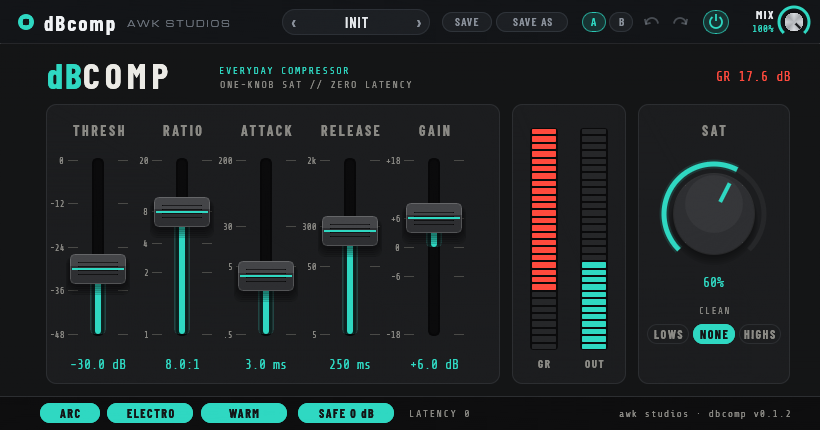
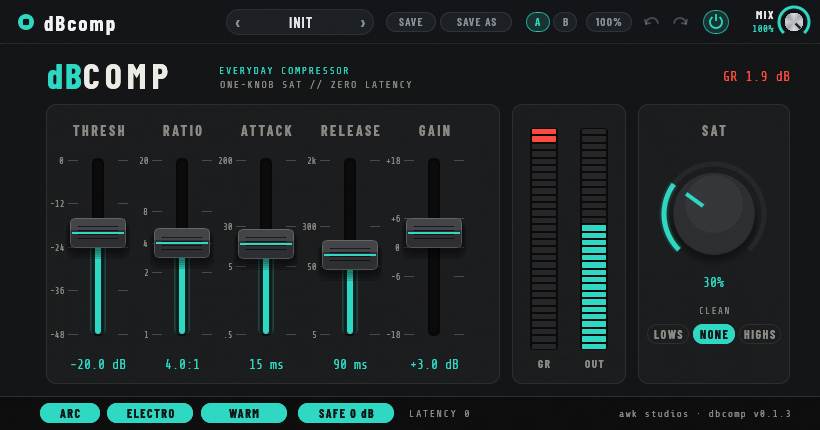
dbcomp 0.1.3: engine and UI update; new screenshot

diff --git a/src/presets.rs b/src/presets.rs
@@ -35,6 +35,17 @@ pub fn dir(plugin: &str) -> PathBuf {
     PathBuf::from(home).join("Documents").join("Awknode").join("Presets").join(plugin)
 }
 
+/// Window sizes in the SIZE dropdown. 100% is the designed (smallest) size.
+pub const SCALES: [f32; 5] = [1.0, 1.25, 1.5, 1.75, 2.0];
+/// Size a plugin opens at until that instance has its own saved size.
+pub const DEFAULT_SCALE: f32 = 1.25;
+
+/// Before the editor opens: use this instance's saved size, else the default.
+pub fn apply_scale(state: &nice_plug_egui::EguiEditorState, saved: &std::sync::RwLock<f32>) {
+    let s = saved.read().map(|v| *v).unwrap_or(0.0);
+    state.set_zoom_factor(if s > 0.0 { s } else { DEFAULT_SCALE });
+}
+
 pub struct PresetBar {
     plugin: &'static str,
     list: Vec<String>,
@@ -42,6 +53,7 @@ pub struct PresetBar {
     pub current: String,
     dirty_check: Option<Vec<f32>>,
     open: bool,
+    size_open: bool,
     naming: Option<String>,
     /// True on the frame the name box opened (so the click that opened it can't close it).
     naming_new: bool,
@@ -65,6 +77,7 @@ impl PresetBar {
             current: INIT.into(),
             dirty_check: None,
             open: false,
+            size_open: false,
             naming: None,
             naming_new: false,
             favs: Vec::new(),
@@ -275,49 +288,64 @@ impl PresetBar {
     /// Draws the header across the top of `whole` and returns the area left below
     /// it for the plugin's own UI (nothing can overlap the header).
     #[allow(clippy::too_many_arguments)]
-    pub fn strip(&mut self, ui: &mut egui::Ui, setter: &ParamSetter, params: &dyn Params, whole: Rect, skin: &Skin, mix: &FloatParam, bypass: &BoolParam) -> Rect {
+    pub fn strip(&mut self, ui: &mut egui::Ui, setter: &ParamSetter, params: &dyn Params, whole: Rect, skin: &Skin, mix: &FloatParam, bypass: &BoolParam, ui_scale: &std::sync::RwLock<f32>) -> Rect {
         let band = Rect::from_min_max(whole.left_top(), pos2(whole.right(), whole.top() + STRIP));
         let p = ui.painter().clone();
         let (l, r, cy) = (band.left(), band.right(), band.center().y);
-        // Band + brand.
-        match skin.look {
-            Look::Riso => {
-                p.rect_filled(band, 0.0, INK);
-                let br = txt(&p, pos2(l + 18.0, cy), Align2::LEFT_CENTER, "AWK STUDIOS", mono(10.0), rgb(0xbd, 0xb3, 0xa3), 3.0);
-                let f = skin.name_font.clone().unwrap_or(labb(24.0));
-                txt(&p, pos2(br.right() + 17.0, cy + 3.0), Align2::LEFT_CENTER, skin.name, f.clone(), skin.brand.unwrap_or(RISO_PINK), 2.0);
-                txt(&p, pos2(br.right() + 14.0, cy), Align2::LEFT_CENTER, skin.name, f, PAPER, 2.0);
-            }
-            Look::Blackface => {
-                vgrad(&p, band, rgb(0x14, 0x14, 0x16), rgb(0x0b, 0x0b, 0x0c));
-                p.rect_filled(Rect::from_min_size(pos2(l, band.bottom() - 1.0), vec2(band.width(), 1.0)), 0.0, Color32::BLACK);
-                p.rect_filled(Rect::from_min_size(pos2(l, band.bottom()), vec2(band.width(), 1.0)), 0.0, Color32::from_white_alpha(15));
-                let br = txt(&p, pos2(l + 18.0, cy), Align2::LEFT_CENTER, "AWK STUDIOS", disp(9.0), rgb(0xbf, 0xc3, 0xc8), 2.0);
-                txt(&p, pos2(br.right() + 14.0, cy + 1.0), Align2::LEFT_CENTER, skin.name, labb(21.0), rgb(0xf2, 0xf2, 0xf2), 2.5);
-            }
-            Look::Hud => {
-                p.rect_filled(band, 0.0, Color32::from_rgba_unmultiplied(2, 6, 10, 235));
-                line(&p, pos2(l, band.bottom() - 0.5), pos2(r, band.bottom() - 0.5), al(CY, 0.5), 1.0);
-                let mut x = l;
-                let mut i = 0;
-                while x < r {
-                    line(&p, pos2(x + 0.5, band.bottom()), pos2(x + 0.5, band.bottom() - if i % 5 == 0 { 6.0 } else { 3.0 }), al(CY, 0.5), 1.0);
-                    x += 10.0;
-                    i += 1;
+        // Band + brand, drawn by a closure: measured first on a painter clipped to nothing, then
+        // drawn for real. The small AWK STUDIOS text is left out if the preset browser would get
+        // narrower than 150 px (narrow plugins at the SIZE chip's extra width).
+        let brand_right = std::cell::Cell::new(l);
+        let tx = |p: &egui::Painter, pos: egui::Pos2, a: Align2, s: &str, f: egui::FontId, c: Color32, sp: f32| -> Rect {
+            let rr = txt(p, pos, a, s, f, c, sp);
+            brand_right.set(brand_right.get().max(rr.right()));
+            rr
+        };
+        let draw_brand = |p: &egui::Painter, awk: bool| {
+            brand_right.set(l);
+            match skin.look {
+                Look::Riso => {
+                    p.rect_filled(band, 0.0, INK);
+                    let br = if awk { tx(p, pos2(l + 18.0, cy), Align2::LEFT_CENTER, "AWK STUDIOS", mono(10.0), rgb(0xbd, 0xb3, 0xa3), 3.0) } else { Rect::from_min_size(pos2(l + 4.0, cy), vec2(0.0, 0.0)) };
+                    let f = skin.name_font.clone().unwrap_or(labb(24.0));
+                    tx(p, pos2(br.right() + 17.0, cy + 3.0), Align2::LEFT_CENTER, skin.name, f.clone(), skin.brand.unwrap_or(RISO_PINK), 2.0);
+                    tx(p, pos2(br.right() + 14.0, cy), Align2::LEFT_CENTER, skin.name, f, PAPER, 2.0);
                 }
-                txt(&p, pos2(l + 18.0, band.top() + 8.0), Align2::LEFT_TOP, "AWK STUDIOS", disp(8.0), CY, 3.0);
-                txt(&p, pos2(l + 18.0, band.top() + 22.0), Align2::LEFT_TOP, format!("//{}", skin.name), disp(11.0), rgb(0xf0, 0xfb, 0xff), 2.0);
+                Look::Blackface => {
+                    vgrad(&p, band, rgb(0x14, 0x14, 0x16), rgb(0x0b, 0x0b, 0x0c));
+                    p.rect_filled(Rect::from_min_size(pos2(l, band.bottom() - 1.0), vec2(band.width(), 1.0)), 0.0, Color32::BLACK);
+                    p.rect_filled(Rect::from_min_size(pos2(l, band.bottom()), vec2(band.width(), 1.0)), 0.0, Color32::from_white_alpha(15));
+                    let br = if awk { tx(p, pos2(l + 18.0, cy), Align2::LEFT_CENTER, "AWK STUDIOS", disp(9.0), rgb(0xbf, 0xc3, 0xc8), 2.0) } else { Rect::from_min_size(pos2(l + 4.0, cy), vec2(0.0, 0.0)) };
+                    tx(p, pos2(br.right() + 14.0, cy + 1.0), Align2::LEFT_CENTER, skin.name, labb(21.0), rgb(0xf2, 0xf2, 0xf2), 2.5);
+                }
+                Look::Hud => {
+                    p.rect_filled(band, 0.0, Color32::from_rgba_unmultiplied(2, 6, 10, 235));
+                    line(&p, pos2(l, band.bottom() - 0.5), pos2(r, band.bottom() - 0.5), al(CY, 0.5), 1.0);
+                    let mut x = l;
+                    let mut i = 0;
+                    while x < r {
+                        line(&p, pos2(x + 0.5, band.bottom()), pos2(x + 0.5, band.bottom() - if i % 5 == 0 { 6.0 } else { 3.0 }), al(CY, 0.5), 1.0);
+                        x += 10.0;
+                        i += 1;
+                    }
+                    if awk { tx(p, pos2(l + 18.0, band.top() + 8.0), Align2::LEFT_TOP, "AWK STUDIOS", disp(8.0), CY, 3.0); }
+                    tx(p, pos2(l + 18.0, band.top() + 22.0), Align2::LEFT_TOP, &format!("//{}", skin.name), disp(11.0), rgb(0xf0, 0xfb, 0xff), 2.0);
+                }
+                Look::Machined => {
+                    p.rect_filled(band, 0.0, rgb(0x13, 0x15, 0x18));
+                    p.rect_filled(Rect::from_min_size(pos2(l, band.bottom() - 1.0), vec2(band.width(), 1.0)), 0.0, Color32::from_white_alpha(10));
+                    let dot = pos2(l + 26.0, cy);
+                    p.circle_filled(dot, 8.0, skin.acc);
+                    p.circle_filled(dot, 3.5, rgb(0x13, 0x15, 0x18));
+                    let nr = tx(p, pos2(l + 44.0, cy + 1.0), Align2::LEFT_CENTER, skin.name, labb(21.0), rgb(0xf1, 0xf3, 0xf5), 2.0);
+                    if awk { tx(p, pos2(nr.right() + 12.0, cy + 1.0), Align2::LEFT_CENTER, "AWK STUDIOS", disp(8.0), rgb(0x6c, 0x73, 0x7c), 2.0); }
+                }
             }
-            Look::Machined => {
-                p.rect_filled(band, 0.0, rgb(0x13, 0x15, 0x18));
-                p.rect_filled(Rect::from_min_size(pos2(l, band.bottom() - 1.0), vec2(band.width(), 1.0)), 0.0, Color32::from_white_alpha(10));
-                let dot = pos2(l + 26.0, cy);
-                p.circle_filled(dot, 8.0, skin.acc);
-                p.circle_filled(dot, 3.5, rgb(0x13, 0x15, 0x18));
-                let nr = txt(&p, pos2(l + 44.0, cy + 1.0), Align2::LEFT_CENTER, skin.name, labb(21.0), rgb(0xf1, 0xf3, 0xf5), 2.0);
-                txt(&p, pos2(nr.right() + 12.0, cy + 1.0), Align2::LEFT_CENTER, "AWK STUDIOS", disp(8.0), rgb(0x6c, 0x73, 0x7c), 2.0);
-            }
-        }
+        };
+        draw_brand(&p.clone().with_clip_rect(Rect::NOTHING), true);
+        let awk = (r - 434.0 - 12.0) - (brand_right.get() + 14.0) >= 150.0;
+        draw_brand(&p, awk);
+        let brand_r = brand_right.get();
 
         // Right side, laid out from the right edge.
         let mix_c = pos2(r - 26.0, cy);
@@ -345,8 +373,53 @@ impl PresetBar {
                 self.undo(setter, params);
             }
         }
+        // SIZE: dropdown of window sizes. Saved per instance (with the project).
+        {
+            let cur = ui.ctx().zoom_factor();
+            let idx = SCALES.iter().position(|s| (s - cur).abs() < 0.01).unwrap_or(0);
+            let sr = Rect::from_min_size(pos2(r - 234.0, cy - 10.0), vec2(46.0, 20.0));
+            let resp = skin.chip(ui, sr, &format!("{:.0}%", SCALES[idx] * 100.0), self.size_open, "pb-size").on_hover_text("Window size");
+            if resp.clicked() {
+                self.size_open = !self.size_open;
+            }
+            if self.size_open {
+                let (bg, edge, hi) = match skin.look {
+                    Look::Hud => (Color32::from_rgba_unmultiplied(4, 10, 18, 250), CY, al(skin.acc, 0.28)),
+                    Look::Blackface | Look::Riso => (rgb(0x16, 0x16, 0x18), rgb(0x45, 0x47, 0x4b), al(skin.acc, 0.3)),
+                    Look::Machined => (rgb(0x1d, 0x20, 0x24), rgb(0x3a, 0x3f, 0x46), al(skin.acc, 0.25)),
+                };
+                let mut pick = None;
+                let inner = egui::Area::new(Id::new((self.plugin, "size-list"))).order(Order::Foreground).fixed_pos(sr.left_bottom() + vec2(-14.0, 4.0)).show(ui.ctx(), |ui| {
+                    egui::Frame::NONE.fill(bg).stroke(Stroke::new(1.0_f32, edge)).inner_margin(4.0).show(ui, |ui| {
+                        txt(ui.painter(), ui.max_rect().left_top() + vec2(6.0, 9.0), Align2::LEFT_CENTER, "SIZE", mono(9.5), skin.acc, 1.5);
+                        ui.allocate_exact_size(vec2(66.0, 18.0), Sense::hover());
+                        for (i, s) in SCALES.iter().enumerate() {
+                            let (rr, rs) = ui.allocate_exact_size(vec2(66.0, 22.0), Sense::click());
+                            if i == idx {
+                                ui.painter().rect_filled(rr, 2.0, hi);
+                            } else if rs.hovered() {
+                                ui.painter().rect_filled(rr, 2.0, Color32::from_white_alpha(14));
+                            }
+                            txt(ui.painter(), rr.center(), Align2::CENTER_CENTER, &format!("{:.0}%", s * 100.0), lab(14.0), if i == idx { Color32::WHITE } else { skin.text_hi() }, 0.5);
+                            if rs.clicked() {
+                                pick = Some(*s);
+                            }
+                        }
+                    });
+                });
+                if let Some(v) = pick {
+                    self.size_open = false;
+                    if let Ok(mut w) = ui_scale.write() {
+                        *w = v;
+                    }
+                    ui.ctx().set_zoom_factor(v);
+                } else if (ui.input(|i| i.pointer.any_click()) && !inner.response.hovered() && !resp.hovered()) || ui.input(|i| i.key_pressed(Key::Escape)) {
+                    self.size_open = false;
+                }
+            }
+        }
         for (i, s) in ["A", "B"].iter().enumerate() {
-            let cr = Rect::from_min_size(pos2(r - 238.0 + i as f32 * 27.0, cy - 10.0), vec2(24.0, 20.0));
+            let cr = Rect::from_min_size(pos2(r - 294.0 + i as f32 * 27.0, cy - 10.0), vec2(24.0, 20.0));
             if skin.chip(ui, cr, s, self.ab_on == i, ("ab", i)).clicked() {
                 self.switch_ab(setter, params, i);
             }
@@ -358,7 +431,7 @@ impl PresetBar {
             }
             self.dirty_check.as_ref().map(|s| *s != snap).unwrap_or(false)
         };
-        let save_as = Rect::from_min_size(pos2(r - 324.0, cy - 10.0), vec2(72.0, 20.0));
+        let save_as = Rect::from_min_size(pos2(r - 380.0, cy - 10.0), vec2(72.0, 20.0));
         let save = Rect::from_min_size(pos2(save_as.left() - 54.0, cy - 10.0), vec2(50.0, 20.0));
         if skin.chip(ui, save, "SAVE", dirty, "pb-save").clicked() {
             if self.current == INIT {
@@ -374,7 +447,7 @@ impl PresetBar {
             self.open_naming(start);
         }
 
-        let pl = (l + 300.0).min(save.left() - 160.0);
+        let pl = (l + 300.0).min(save.left() - 160.0).max(brand_r + 14.0);
         let preset_r = Rect::from_min_max(pos2(pl, band.top() + 9.0), pos2(save.left() - 12.0, band.bottom() - 9.0));
         self.browser(ui, setter, params, preset_r, skin, dirty);
         Rect::from_min_max(pos2(whole.left(), band.bottom()), whole.right_bottom())

diff --git a/src/lib.rs b/src/lib.rs
@@ -27,7 +27,14 @@ mod presets;
 use dbcore::*;
 
 const CR: usize = 16;
-const KNEE: f32 = 6.0;
+/// 0.1.3: fitted to Waves RComp (awk-bench 2026-11-22): 24 dB knee, threshold reads 1 dB lower,
+/// ratio law r^1.25 -> GR within ~1 dB of RComp at 2:1 / 4:1 / 8:1 (was 2-3 dB light everywhere).
+const KNEE: f32 = 24.0;
+const THR_OFFSET: f32 = 1.0;
+const RATIO_EXP: f32 = 1.25;
+/// RComp's attack knob measures ~1.8x slower (10 ms -> 18 ms to 63%), its release ~0.48x (120 ms -> 58 ms).
+const ATTACK_SCALE: f32 = 1.8;
+const RELEASE_SCALE: f32 = 0.32;
 
 pub struct Shared {
     pub meters: awk_ui::Meters,
@@ -75,6 +82,9 @@ pub struct DbCompParams {
     pub safe: BoolParam,
     #[id = "bypass"]
     pub bypass: BoolParam,
+    /// Window size (1.0 = 100%), saved with the project. 0 = not set: open at the default.
+    #[persist = "ui-scale"]
+    pub ui_scale: Arc<std::sync::RwLock<f32>>,
 }
 
 fn ms_param(name: &str, def: f32, min: f32, max: f32) -> FloatParam {
@@ -113,6 +123,7 @@ impl Default for DbCompParams {
             mix: awk_ui::mix_param(),
             safe: awk_ui::safe_param(),
             bypass: awk_ui::bypass_param(),
+            ui_scale: Arc::new(std::sync::RwLock::new(0.0)),
         }
     }
 }
@@ -143,7 +154,7 @@ impl Default for State {
 pub fn release_mult(gr: f32, arc_m: f32, arc: bool, opto: bool) -> f32 {
     let e = (-gr / 4.0).exp();
     let beh = if opto { 0.5 + 1.5 * e } else { 1.5 - e };
-    beh * if arc { arc_m } else { 1.0 }
+    RELEASE_SCALE * beh * if arc { arc_m } else { 1.0 }
 }
 
 pub struct Engine {
@@ -214,12 +225,14 @@ impl Engine {
         for i in 0..l.len() {
             let (x0, x1) = (l[i], r[i]);
             if self.n == 0 {
-                self.ca = coef(self.sr, st.attack_ms * 0.001);
+                self.ca = coef(self.sr, st.attack_ms * ATTACK_SCALE * 0.001);
                 self.cr = coef(self.sr, st.release_ms * 0.001 * release_mult(self.gr, self.crest.mult(), st.arc, st.opto));
             }
             self.n = (self.n + 1) % CR;
             self.crest.tick(x0, x1);
-            let t = gr_soft(self.lvl.tick(x0, x1), st.thresh, st.ratio, KNEE);
+            // knee widens as THRESH comes down, so THRESH 0 stays a clean "off" (hard knee at 0 dBFS)
+            let knee = KNEE.min(-2.0 * st.thresh).max(0.5);
+            let t = gr_soft(self.lvl.tick(x0, x1) + THR_OFFSET, st.thresh, st.ratio.max(1.0).powf(RATIO_EXP), knee);
             let c = if t > self.gr { self.ca } else { self.cr };
             self.gr = t + c * (self.gr - t);
             peak_gr = peak_gr.max(self.gr);
@@ -227,7 +240,8 @@ impl Engine {
             let (mut y0, mut y1) = (x0 * gc, x1 * gc);
             if warm_on {
                 // quantised so the saturator's cached coefficients hold between steps
-                let w = ((self.gr / 18.0).min(1.0) * 0.35 * 64.0).round() / 64.0;
+                // 0.1.3: RComp's WARM is very subtle (2nd harmonic ~-105 dB); ours was -49 dB. Now ~20 dB subtler.
+                let w = ((self.gr / 18.0).min(1.0) * 0.035 * 512.0).round() / 512.0;
                 y0 = self.warm.tick(0, y0, w, 1);
                 y1 = self.warm.tick(1, y1, w, 1);
             }

diff --git a/tests/engine.rs b/tests/engine.rs
@@ -39,13 +39,15 @@ fn defaults_are_transparent() {
     for i in 0..x.len() { assert_eq!(y[i], x[i], "sample {i}"); }
 }
 
+/// 0.1.3: the static curve matches Waves RComp (awk-bench 2026-11-22, 200 Hz at -12 dBFS RMS,
+/// ARC/WARM/ELECTRO): thresh -24 4:1 -> -13.6 dB, 2:1 -> -10.3, 8:1 -> -14.4; thresh -12 4:1 -> -4.7.
 #[test]
 fn static_curve_matches_thresh_and_ratio() {
-    let x = sine(48000, -10.0, 200.0);
-    for (th, ra, want) in [(-20.0f32, 4.0f32, -7.5f32), (-20.0, 2.0, -5.0), (-30.0, 10.0, -18.0), (0.0, 4.0, 0.0)] {
+    let x = sine(48000, -12.0 + 3.0103, 200.0);
+    for (th, ra, want) in [(-24.0f32, 4.0f32, -13.6f32), (-24.0, 2.0, -10.3), (-24.0, 8.0, -14.4), (-12.0, 4.0, -4.7), (0.0, 4.0, 0.0)] {
         let g = gain_db(&State { thresh: th, ratio: ra, warm: false, safe: false, ..State::default() }, &x);
-        println!("thresh {th} ratio {ra}: {g:.2} dB (want {want})");
-        assert!((g - want).abs() < 0.8, "{th}/{ra}: {g}");
+        println!("thresh {th} ratio {ra}: {g:.2} dB (RComp {want})");
+        assert!((g - want).abs() < 1.5, "{th}/{ra}: {g}");
     }
 }
 
@@ -63,14 +65,14 @@ fn slow_attack_lets_the_snare_crack_through() {
     assert!(slow > fast * 1.6);
 }
 
-/// dB of GR left 150 ms after a loud section ends
+/// dB of GR left 40 ms after a loud section ends (0.1.3: releases ~3x quicker, like RComp)
 fn tail(arc: bool, opto: bool, loud_s: f32) -> f32 {
     let n = (loud_s * SR) as usize;
     let mut x = sine(n, -6.0, 150.0);
     x.extend(sine(24000, -40.0, 150.0));
     let st = State { thresh: -30.0, ratio: 6.0, release_ms: 100.0, arc, opto, warm: false, safe: false, ..State::default() };
     let y = run(&st, &x);
-    let i = n + 7200;
+    let i = n + 1920;
     let w = 960;
     -20.0 * (rms(&y[i..i + w]) / rms(&x[i..i + w])).log10()
 }
@@ -79,7 +81,7 @@ fn tail(arc: bool, opto: bool, loud_s: f32) -> f32 {
 fn release_follows_arc_and_behaviour() {
     let (e, o) = (tail(false, false, 0.3), tail(false, true, 0.3));
     let (short, long) = (tail(true, false, 0.05), tail(true, false, 2.0));
-    println!("GR 150 ms after: electro {e:.1}, opto {o:.1}; ARC after 50 ms burst {short:.1}, after 2 s {long:.1}");
+    println!("GR 40 ms after: electro {e:.1}, opto {o:.1}; ARC after 50 ms burst {short:.1}, after 2 s {long:.1}");
     assert!((e - o).abs() > 0.5, "OPTO and ELECTRO should release differently");
     assert!(long > short + 0.5, "ARC: sustained compression releases slower");
 }
@@ -103,8 +105,9 @@ fn arc_reads_the_crest_factor() {
     };
     let ((ct, mt), (cd, md)) = (m(&tone), m(&drums));
     println!("crest: tone {ct:.1} dB -> release x{mt:.2}; drums {cd:.1} dB -> release x{md:.2}");
-    assert!(ct < 4.5 && mt > 2.0);
-    assert!(cd > 12.0 && md < 0.8);
+    // 0.1.3, like RComp's ARC: sustained material keeps the knob's release, spiky material gets quicker
+    assert!(ct < 4.5 && (mt - 1.0).abs() < 0.05);
+    assert!(cd > 12.0 && md < 0.6);
 }
 
 #[test]

diff --git a/src/editor.rs b/src/editor.rs
@@ -36,6 +36,7 @@ fn new_state(name: &'static str) -> St {
 
 pub(crate) fn create(params: Arc<DbCompParams>, shared: Arc<Shared>) -> Option<crate::nice_app::AwkEditor> {
     let state = params.editor_state.clone();
+    crate::presets::apply_scale(&state, &params.ui_scale);
     create_egui_editor(state, nice_plug_egui::RepaintNotifier::new(), nice_plug_egui::EguiNiceSettings::default(), crate::nice_app::AwkApp::new(install_fonts, {
         let mut __st = new_state("dBcomp");
         Box::new(move |ctx: &mut egui::Ui, setter: &ParamSetter| {
@@ -267,7 +268,7 @@ fn frame(root: &mut egui::Ui, setter: &ParamSetter, st: &mut St, p: &DbCompParam
         }
         txt(&pa, pos2(o.x + 380.0, cy), Align2::LEFT_CENTER, "LATENCY 0", mono(10.0), DIM, 1.5);
         txt(&pa, pos2(o.x + 760.0, cy), Align2::RIGHT_CENTER, format!("awk studios · {} v{}", NAME.to_lowercase(), env!("CARGO_PKG_VERSION")), mono(10.0), DIM, 1.0);
-        let _ = st.presets.strip(ui, setter, p, whole, &st.skin, &p.mix, &p.bypass);
+        let _ = st.presets.strip(ui, setter, p, whole, &st.skin, &p.mix, &p.bypass, &p.ui_scale);
     });
 }
 

diff --git a/src/dbcore.rs b/src/dbcore.rs
@@ -219,7 +219,9 @@ impl Crest {
     pub fn mult(&mut self) -> f32 {
         if let Some(c) = self.db() {
             let t = ((c - CREST_LO_DB) / (CREST_HI_DB - CREST_LO_DB)).clamp(0.0, 1.0);
-            self.m = 2.5 * 0.2f32.powf(t);
+            // 0.1.3: like RComp's ARC, sustained material keeps the knob's release (was 2.5x),
+            // punchy material gets quicker (down to 0.4x)
+            self.m = 0.4f32.powf(t);
         }
         self.m
     }
